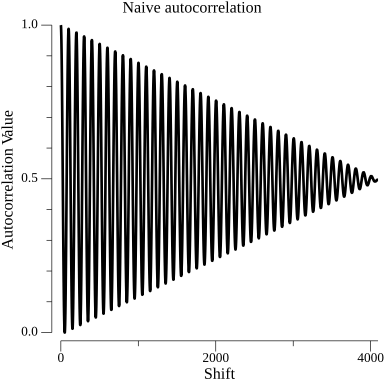
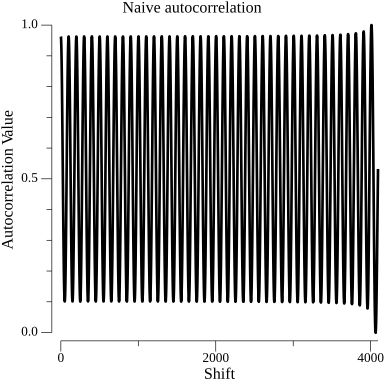
Unbias naive implementation

Changed region(s): [[0.1562, 0.0625, 1.0, 0.875], [0.1562, 0.0625, 0.2188, 0.1562]]

diff --git a/autocorrelation.naive.go b/autocorrelation.naive.go
@@ -18,8 +18,10 @@ func NaiveAutocorrelation(buf *audio.IntBuffer) []float64 {
 		for i := 0; i < slen-shift; i++ {
 			sum += samples[i] * samples[i+shift]
 		}
-		result[shift] = sum
+		result[shift] = sum / float64(slen-shift) // Unbias: Divide by number of samples multiplied so that it's autocorrelation per sample investigated
 	}
+
+	// FIXME: Divide by total power? We should make this fully comparable to optimized version without lazy normalization later
 
 	return result
 }
